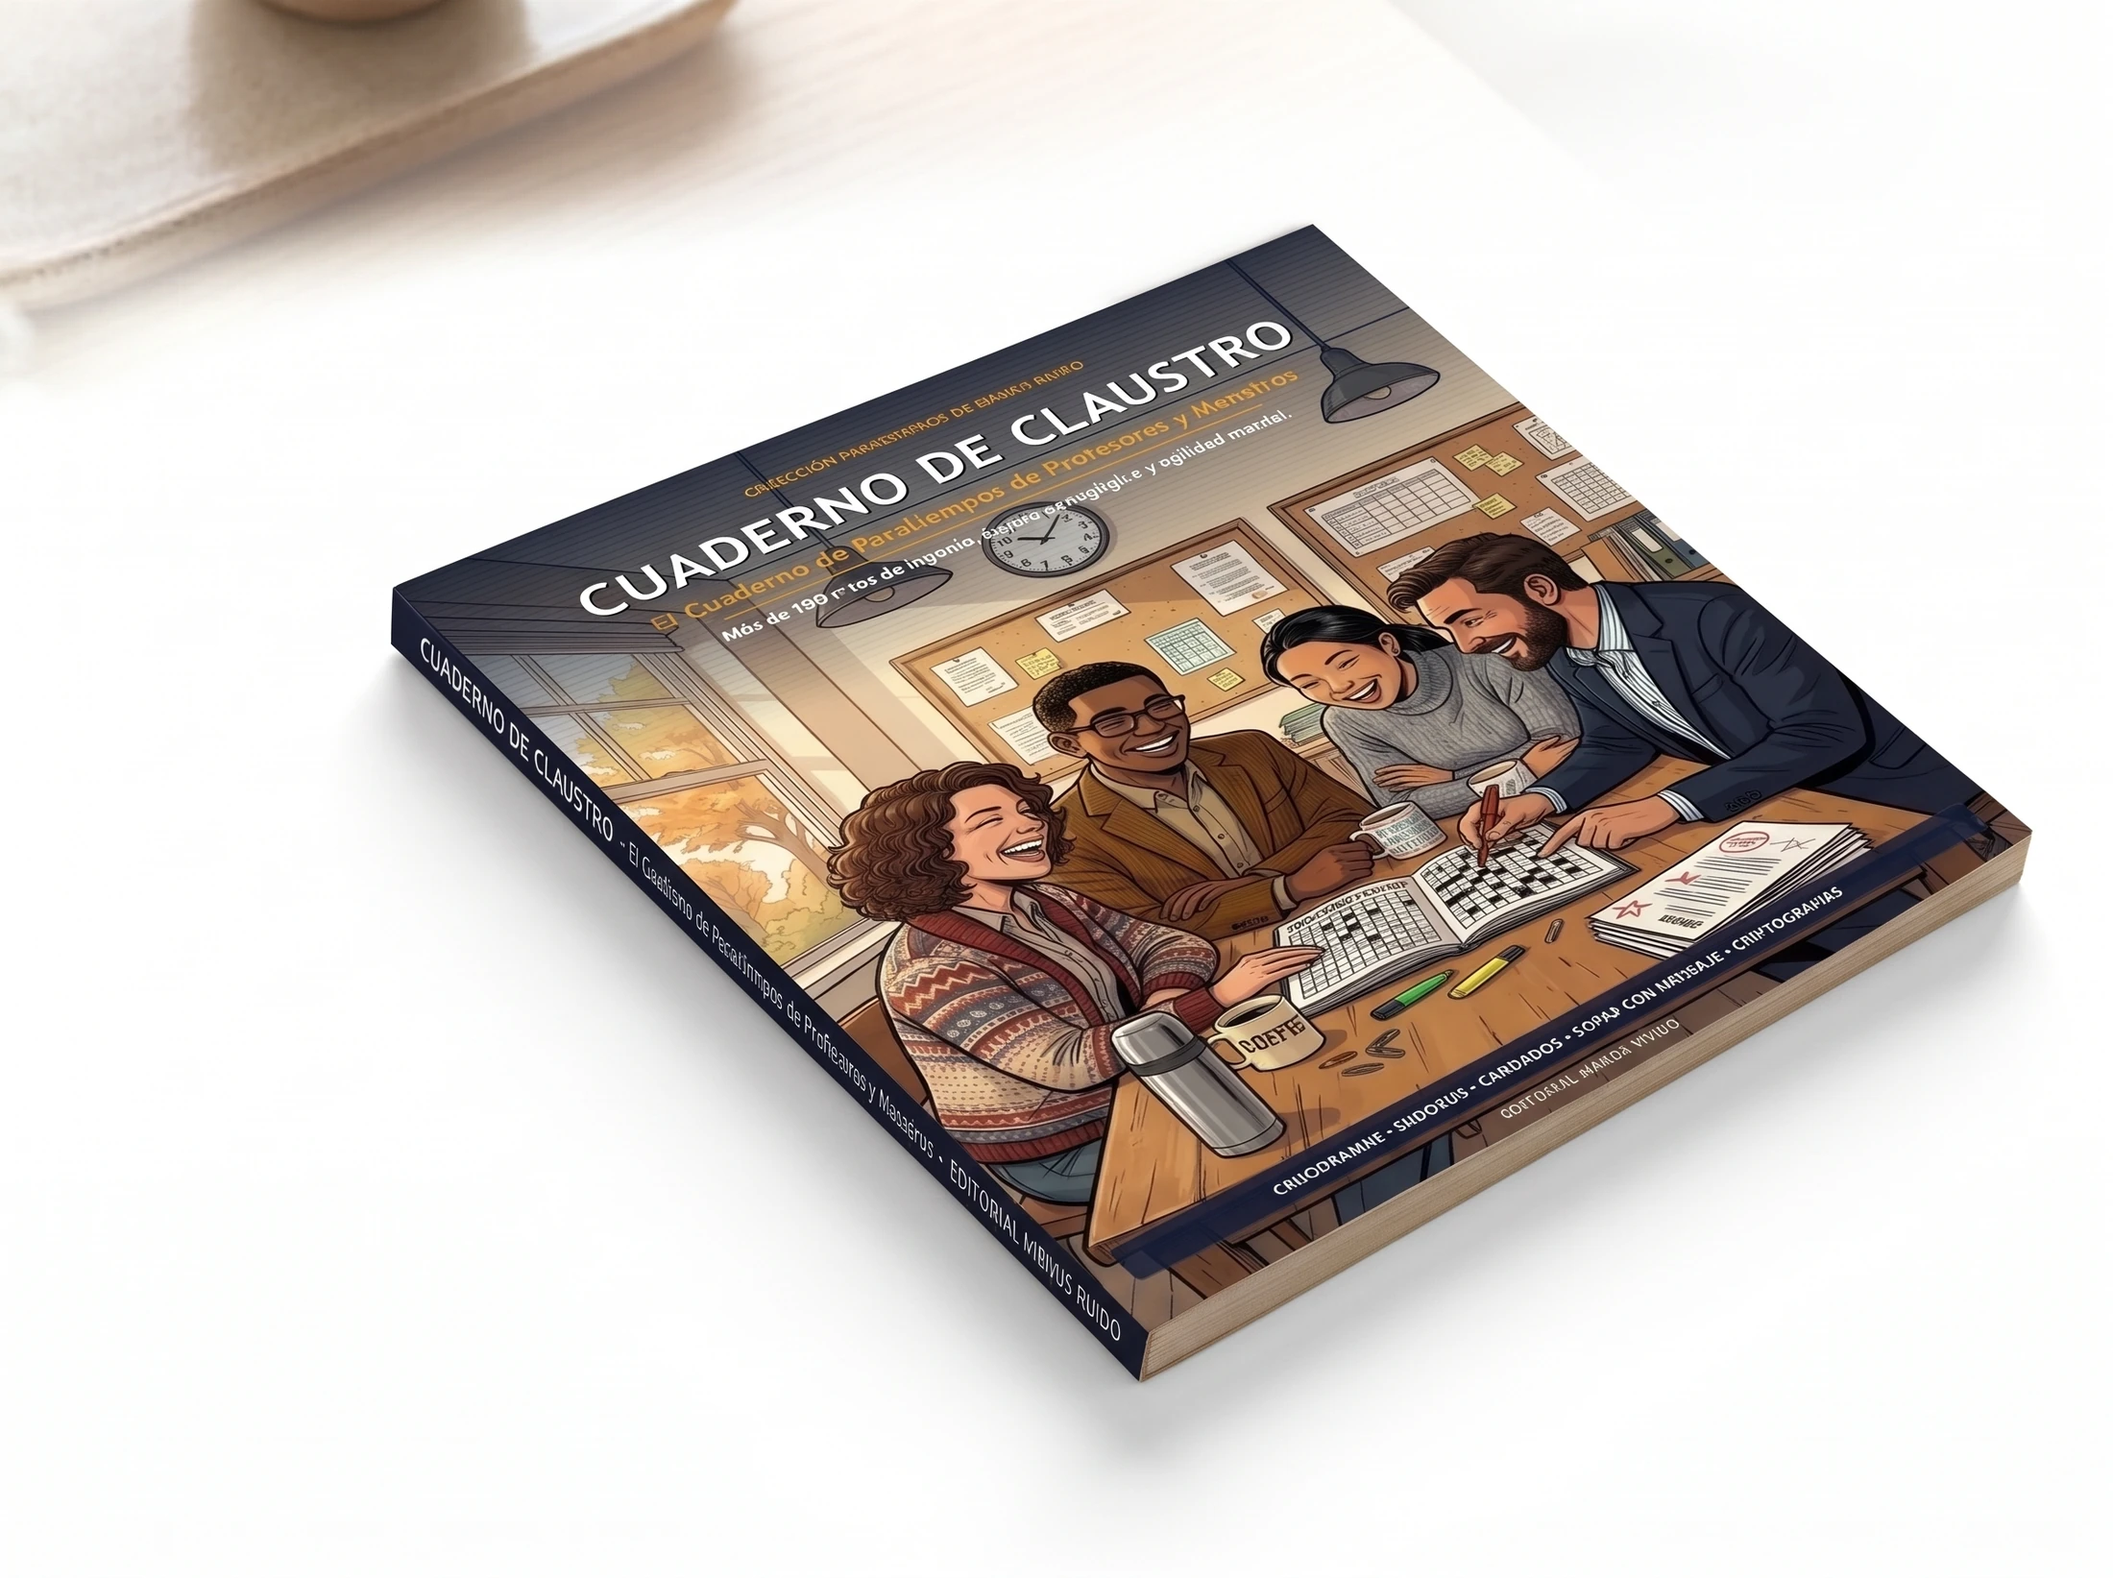
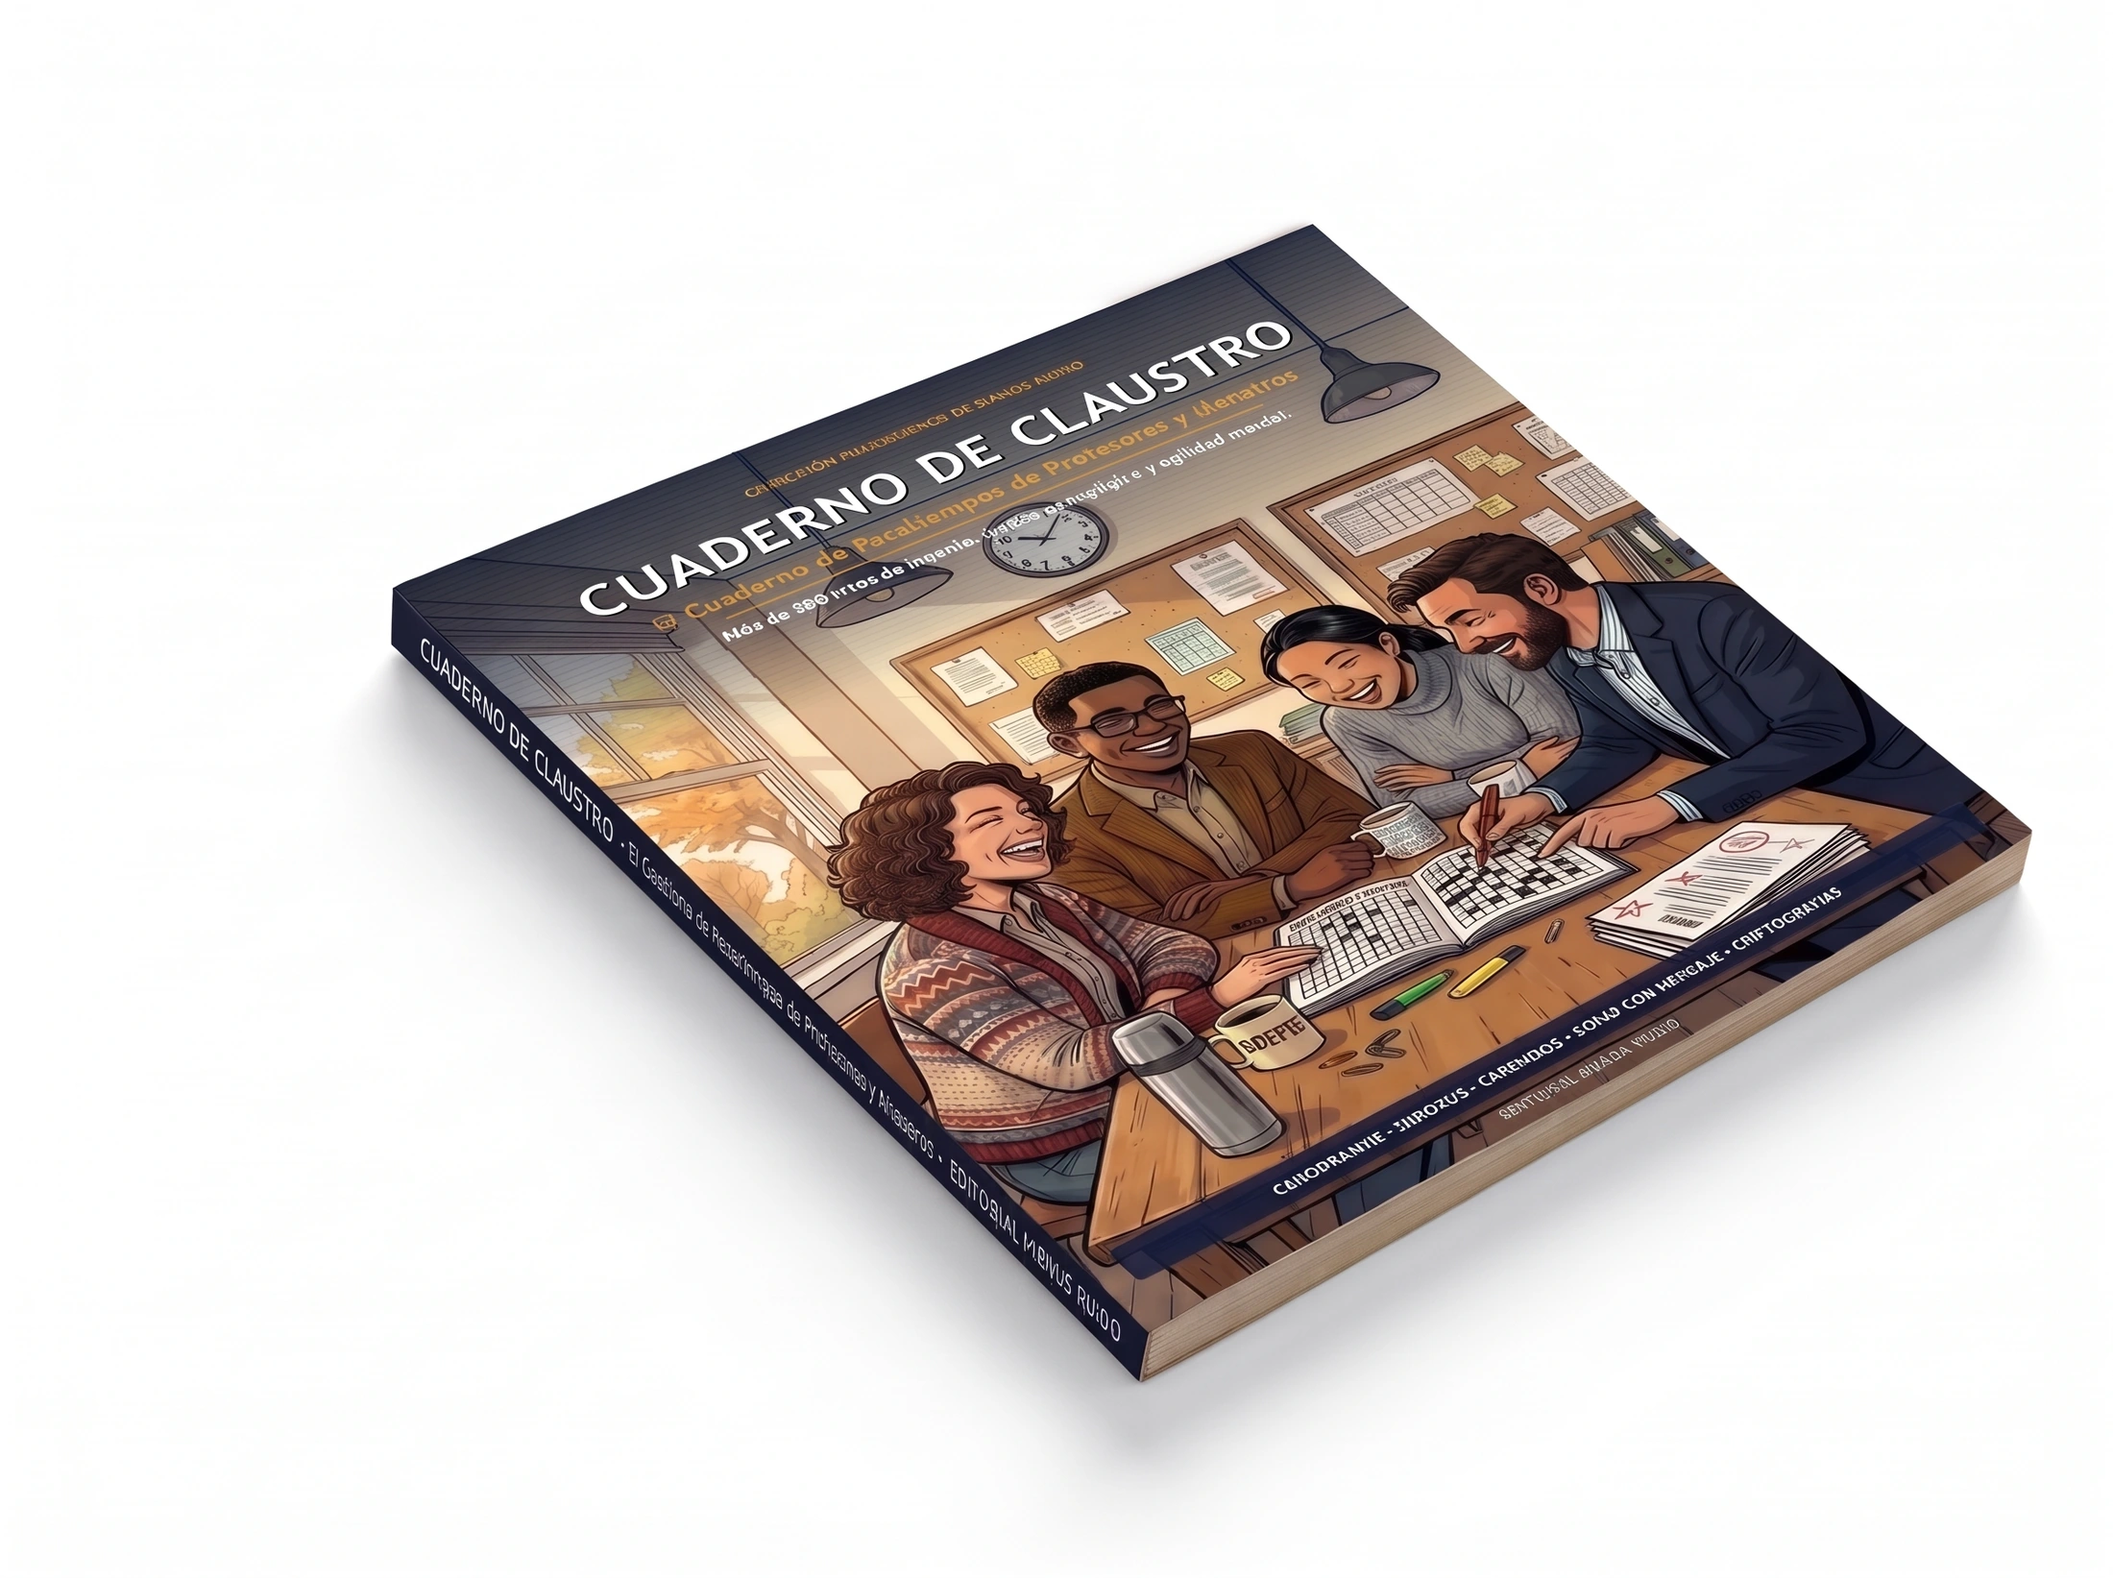
feat(web): aplicar nuevas fotos fondo blanco preparadas por el autor en pasatiempos y actualizar texto mismo libro con diferentes portadas

diff --git a/pasatiempos.html b/pasatiempos.html
@@ -156,7 +156,7 @@
                     <div class="product-card fade-in-up">
                         <div class="product-image">
                             <a href="/libro-pasatiempos-abuelos.html" style="display: block;">
-                                <img src="/images/mockup-pasatiempos-abuelos-blanco.webp?v=20261112" alt="El Gran Cuaderno de los Abuel@s - Libro de pasatiempos familiar" loading="lazy" style="cursor: pointer; width: 100%; display: block;">
+                                <img src="/images/mockup-pasatiempos-abuelos-blanco.webp?v=20261112b" alt="El Gran Cuaderno de los Abuel@s - Libro de pasatiempos familiar" loading="lazy" style="cursor: pointer; width: 100%; display: block;">
                             </a>
                         </div>
                         <div class="product-info">
@@ -175,7 +175,7 @@
                     <div class="product-card fade-in-up">
                         <div class="product-image">
                             <a href="/libro-pasatiempos-enfermeria.html" style="display: block;">
-                                <img src="/images/mockup-pasatiempos-enfermeria-blanco.webp?v=20261112" alt="Turno de Noche: Enfermera - Cuaderno de pasatiempos sanitarios" loading="lazy" style="cursor: pointer; width: 100%; display: block;">
+                                <img src="/images/mockup-pasatiempos-enfermeria-blanco.webp?v=20261112b" alt="Turno de Noche: Enfermera - Cuaderno de pasatiempos sanitarios" loading="lazy" style="cursor: pointer; width: 100%; display: block;">
                             </a>
                         </div>
                         <div class="product-info">
@@ -194,7 +194,7 @@
                     <div class="product-card fade-in-up">
                         <div class="product-image">
                             <a href="/libro-pasatiempos-docentes.html" style="display: block;">
-                                <img src="/images/mockup-pasatiempos-docentes-blanco.webp?v=20261112" alt="El Gran Libro de los Docentes - Pasatiempos de claustro" loading="lazy" style="cursor: pointer; width: 100%; display: block;">
+                                <img src="/images/mockup-pasatiempos-docentes-blanco.webp?v=20261112b" alt="El Gran Libro de los Docentes - Pasatiempos de claustro" loading="lazy" style="cursor: pointer; width: 100%; display: block;">
                             </a>
                         </div>
                         <div class="product-info">
@@ -213,7 +213,7 @@
                     <div class="product-card fade-in-up">
                         <div class="product-image">
                             <a href="/libro-pasatiempos-navidad.html" style="display: block;">
-                                <img src="/images/mockup-pasatiempos-navidad-blanco.webp?v=20261112" alt="Pasatiempos de Navidad - Edición sobremesa familiar" loading="lazy" style="cursor: pointer; width: 100%; display: block;">
+                                <img src="/images/mockup-pasatiempos-navidad-blanco.webp?v=20261112b" alt="Pasatiempos de Navidad - Edición sobremesa familiar" loading="lazy" style="cursor: pointer; width: 100%; display: block;">
                             </a>
                         </div>
                         <div class="product-info">

diff --git a/libro-pasatiempos-docentes.html b/libro-pasatiempos-docentes.html
@@ -262,13 +262,13 @@
                         <div id="coverSliderTrack" style="display: flex; transition: transform 0.35s cubic-bezier(0.25, 1, 0.5, 1); width: 100%;">
                             <!-- Portada 1: Oficial -->
                             <div style="min-width: 100%; box-sizing: border-box; display: flex; flex-direction: column; align-items: center;">
-                                <img src="/images/mockup-pasatiempos-docentes-blanco.webp?v=20261112" class="cover-zoom" alt="Portada Oficial · Edición Color Claustro - El Gran Libro de los Docentes" style="width: 100%; max-width: 440px; border-radius: 10px; cursor: zoom-in;" loading="lazy" />
-                                <span style="font-size: 0.8rem; color: #64748B; font-weight: 600; margin-top: 8px;">📖 Portada Oficial · Edición Color Claustro</span>
+                                <img src="/images/mockup-pasatiempos-docentes-blanco.webp?v=20261112b" class="cover-zoom" alt="Portada Oficial · Edición Color Claustro - El Gran Libro de los Docentes" style="width: 100%; max-width: 440px; border-radius: 10px; cursor: zoom-in;" loading="lazy" />
+                                <span style="font-size: 0.8rem; color: #64748B; font-weight: 600; margin-top: 8px;">📖 Portada Oficial · Edición Claustro (Mismo libro con diferentes portadas)</span>
                             </div>
                             <!-- Portada 2: Alternativa -->
                             <div style="min-width: 100%; box-sizing: border-box; display: flex; flex-direction: column; align-items: center;">
-                                <img src="/images/mockup-pasatiempos-docentes-disimulo-blanco.webp?v=20261112" class="cover-zoom" alt="Portada Alternativa · Edición Disimulo (Cuaderno Serio) - El Gran Libro de los Docentes" style="width: 100%; max-width: 440px; border-radius: 10px; cursor: zoom-in;" loading="lazy" />
-                                <span style="font-size: 0.8rem; color: #64748B; font-weight: 600; margin-top: 8px;">📖 Portada Alternativa · Edición Disimulo (Cuaderno Serio)</span>
+                                <img src="/images/mockup-pasatiempos-docentes-disimulo-blanco.webp?v=20261112b" class="cover-zoom" alt="Portada Alternativa · Edición Disimulo (Cuaderno Serio) - El Gran Libro de los Docentes" style="width: 100%; max-width: 440px; border-radius: 10px; cursor: zoom-in;" loading="lazy" />
+                                <span style="font-size: 0.8rem; color: #64748B; font-weight: 600; margin-top: 8px;">📖 Portada Alternativa · Edición Disimulo (Mismo libro con diferentes portadas)</span>
                             </div>
                         </div>
 

diff --git a/libro-pasatiempos-enfermeria.html b/libro-pasatiempos-enfermeria.html
@@ -262,13 +262,13 @@
                         <div id="coverSliderTrack" style="display: flex; transition: transform 0.35s cubic-bezier(0.25, 1, 0.5, 1); width: 100%;">
                             <!-- Portada 1: Oficial -->
                             <div style="min-width: 100%; box-sizing: border-box; display: flex; flex-direction: column; align-items: center;">
-                                <img src="/images/mockup-pasatiempos-enfermeria-blanco.webp?v=20261112" class="cover-zoom" alt="Portada Oficial · Edición Color Turno - Turno de Noche: Enfermería" style="width: 100%; max-width: 440px; border-radius: 10px; cursor: zoom-in;" loading="lazy" />
-                                <span style="font-size: 0.8rem; color: #64748B; font-weight: 600; margin-top: 8px;">📖 Portada Oficial · Edición Color Turno</span>
+                                <img src="/images/mockup-pasatiempos-enfermeria-blanco.webp?v=20261112b" class="cover-zoom" alt="Portada Oficial · Edición Color Turno - Turno de Noche: Enfermería" style="width: 100%; max-width: 440px; border-radius: 10px; cursor: zoom-in;" loading="lazy" />
+                                <span style="font-size: 0.8rem; color: #64748B; font-weight: 600; margin-top: 8px;">📖 Portada Oficial · Edición Turno (Mismo libro con diferentes portadas)</span>
                             </div>
                             <!-- Portada 2: Alternativa -->
                             <div style="min-width: 100%; box-sizing: border-box; display: flex; flex-direction: column; align-items: center;">
-                                <img src="/images/mockup-pasatiempos-enfermeria-disimulo-blanco.webp?v=20261112" class="cover-zoom" alt="Portada Alternativa · Edición Disimulo (Manual Clínico) - Turno de Noche: Enfermería" style="width: 100%; max-width: 440px; border-radius: 10px; cursor: zoom-in;" loading="lazy" />
-                                <span style="font-size: 0.8rem; color: #64748B; font-weight: 600; margin-top: 8px;">📖 Portada Alternativa · Edición Disimulo (Manual Clínico)</span>
+                                <img src="/images/mockup-pasatiempos-enfermeria-disimulo-blanco.webp?v=20261112b" class="cover-zoom" alt="Portada Alternativa · Edición Disimulo (Manual Clínico) - Turno de Noche: Enfermería" style="width: 100%; max-width: 440px; border-radius: 10px; cursor: zoom-in;" loading="lazy" />
+                                <span style="font-size: 0.8rem; color: #64748B; font-weight: 600; margin-top: 8px;">📖 Portada Alternativa · Edición Disimulo (Mismo libro con diferentes portadas)</span>
                             </div>
                         </div>
 

diff --git a/libro-pasatiempos-abuelos.html b/libro-pasatiempos-abuelos.html
@@ -262,13 +262,13 @@
                         <div id="coverSliderTrack" style="display: flex; transition: transform 0.35s cubic-bezier(0.25, 1, 0.5, 1); width: 100%;">
                             <!-- Portada 1: Oficial -->
                             <div style="min-width: 100%; box-sizing: border-box; display: flex; flex-direction: column; align-items: center;">
-                                <img src="/images/mockup-pasatiempos-abuelos-blanco.webp?v=20261112" class="cover-zoom" alt="Portada Oficial · Edición 2ª Generación - El Gran Cuaderno de los Abuel@s" style="width: 100%; max-width: 440px; border-radius: 10px; cursor: zoom-in;" loading="lazy" />
-                                <span style="font-size: 0.8rem; color: #64748B; font-weight: 600; margin-top: 8px;">📖 Portada Oficial · Edición 2ª Generación</span>
+                                <img src="/images/mockup-pasatiempos-abuelos-blanco.webp?v=20261112b" class="cover-zoom" alt="Portada Oficial · Edición 2ª Generación - El Gran Cuaderno de los Abuel@s" style="width: 100%; max-width: 440px; border-radius: 10px; cursor: zoom-in;" loading="lazy" />
+                                <span style="font-size: 0.8rem; color: #64748B; font-weight: 600; margin-top: 8px;">📖 Portada Oficial · Edición 2ª Gen (Mismo libro con diferentes portadas)</span>
                             </div>
                             <!-- Portada 2: Alternativa -->
                             <div style="min-width: 100%; box-sizing: border-box; display: flex; flex-direction: column; align-items: center;">
-                                <img src="/images/mockup-pasatiempos-abuelos-alt-blanco.webp?v=20261112" class="cover-zoom" alt="Portada Alternativa · Edición 3ª Generación - El Gran Cuaderno de los Abuel@s" style="width: 100%; max-width: 440px; border-radius: 10px; cursor: zoom-in;" loading="lazy" />
-                                <span style="font-size: 0.8rem; color: #64748B; font-weight: 600; margin-top: 8px;">📖 Portada Alternativa · Edición 3ª Generación</span>
+                                <img src="/images/mockup-pasatiempos-abuelos-alt-blanco.webp?v=20261112b" class="cover-zoom" alt="Portada Alternativa · Edición 3ª Generación - El Gran Cuaderno de los Abuel@s" style="width: 100%; max-width: 440px; border-radius: 10px; cursor: zoom-in;" loading="lazy" />
+                                <span style="font-size: 0.8rem; color: #64748B; font-weight: 600; margin-top: 8px;">📖 Portada Alternativa · Edición 3ª Gen (Mismo libro con diferentes portadas)</span>
                             </div>
                         </div>
 

diff --git a/libro-pasatiempos-navidad.html b/libro-pasatiempos-navidad.html
@@ -262,13 +262,13 @@
                         <div id="coverSliderTrack" style="display: flex; transition: transform 0.35s cubic-bezier(0.25, 1, 0.5, 1); width: 100%;">
                             <!-- Portada 1: Oficial -->
                             <div style="min-width: 100%; box-sizing: border-box; display: flex; flex-direction: column; align-items: center;">
-                                <img src="/images/mockup-pasatiempos-navidad-blanco.webp?v=20261112" class="cover-zoom" alt="Portada Oficial · Edición Festiva Mesa - Pasatiempos de Navidad" style="width: 100%; max-width: 440px; border-radius: 10px; cursor: zoom-in;" loading="lazy" />
-                                <span style="font-size: 0.8rem; color: #64748B; font-weight: 600; margin-top: 8px;">📖 Portada Oficial · Edición Festiva Mesa</span>
+                                <img src="/images/mockup-pasatiempos-navidad-blanco.webp?v=20261112b" class="cover-zoom" alt="Portada Oficial · Edición Festiva Mesa - Pasatiempos de Navidad" style="width: 100%; max-width: 440px; border-radius: 10px; cursor: zoom-in;" loading="lazy" />
+                                <span style="font-size: 0.8rem; color: #64748B; font-weight: 600; margin-top: 8px;">📖 Portada Oficial · Edición Festiva (Mismo libro con diferentes portadas)</span>
                             </div>
                             <!-- Portada 2: Alternativa -->
                             <div style="min-width: 100%; box-sizing: border-box; display: flex; flex-direction: column; align-items: center;">
-                                <img src="/images/mockup-pasatiempos-navidad-alt-blanco.webp?v=20261112" class="cover-zoom" alt="Portada Alternativa · Edición Árbol y Regalos - Pasatiempos de Navidad" style="width: 100%; max-width: 440px; border-radius: 10px; cursor: zoom-in;" loading="lazy" />
-                                <span style="font-size: 0.8rem; color: #64748B; font-weight: 600; margin-top: 8px;">📖 Portada Alternativa · Edición Árbol y Regalos</span>
+                                <img src="/images/mockup-pasatiempos-navidad-alt-blanco.webp?v=20261112b" class="cover-zoom" alt="Portada Alternativa · Edición Árbol y Regalos - Pasatiempos de Navidad" style="width: 100%; max-width: 440px; border-radius: 10px; cursor: zoom-in;" loading="lazy" />
+                                <span style="font-size: 0.8rem; color: #64748B; font-weight: 600; margin-top: 8px;">📖 Portada Alternativa · Edición Árbol (Mismo libro con diferentes portadas)</span>
                             </div>
                         </div>
 
